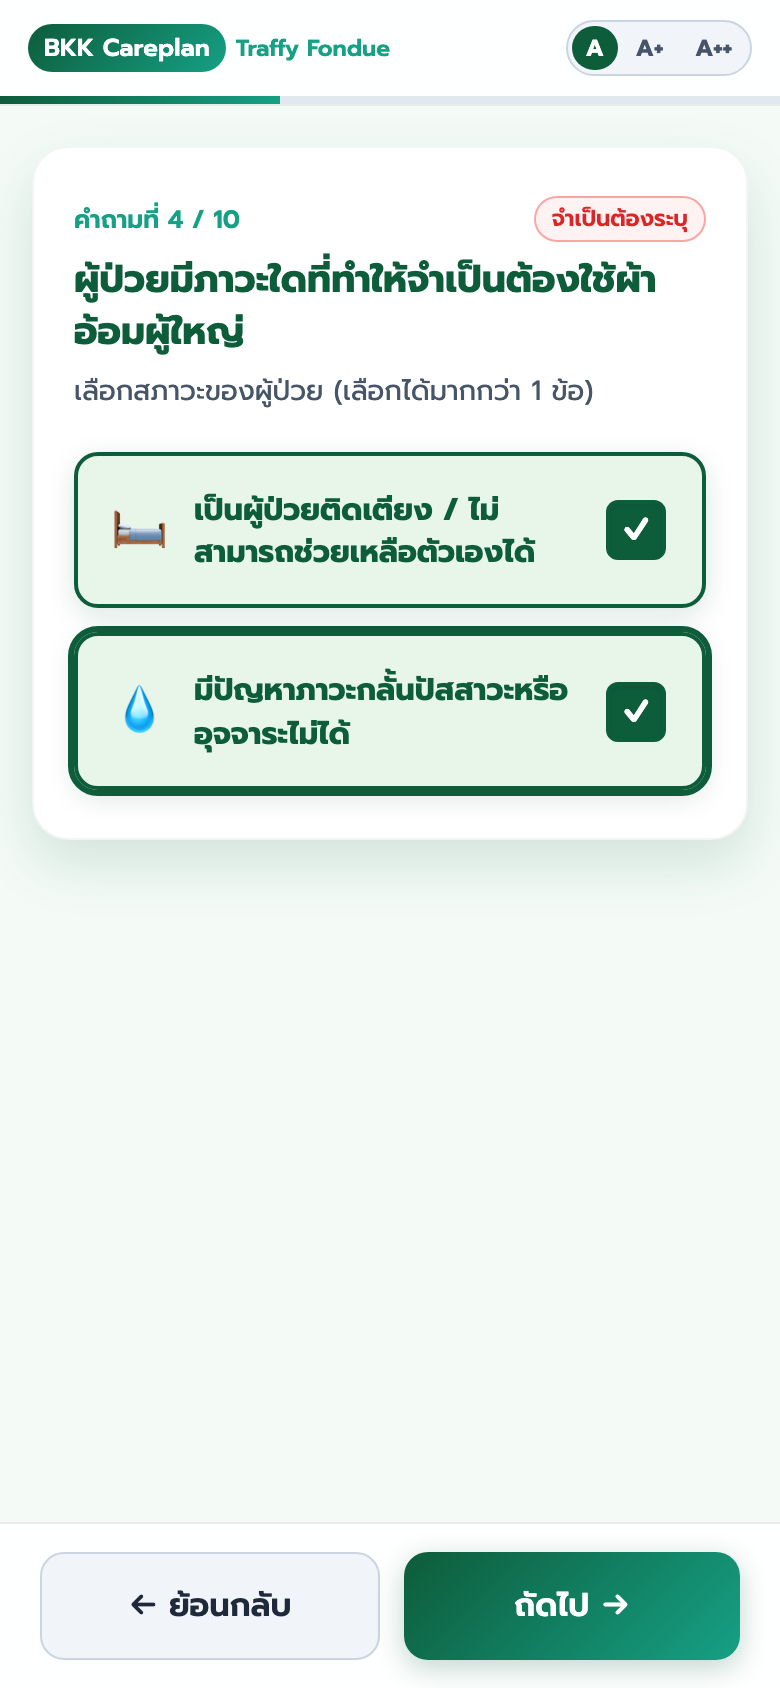
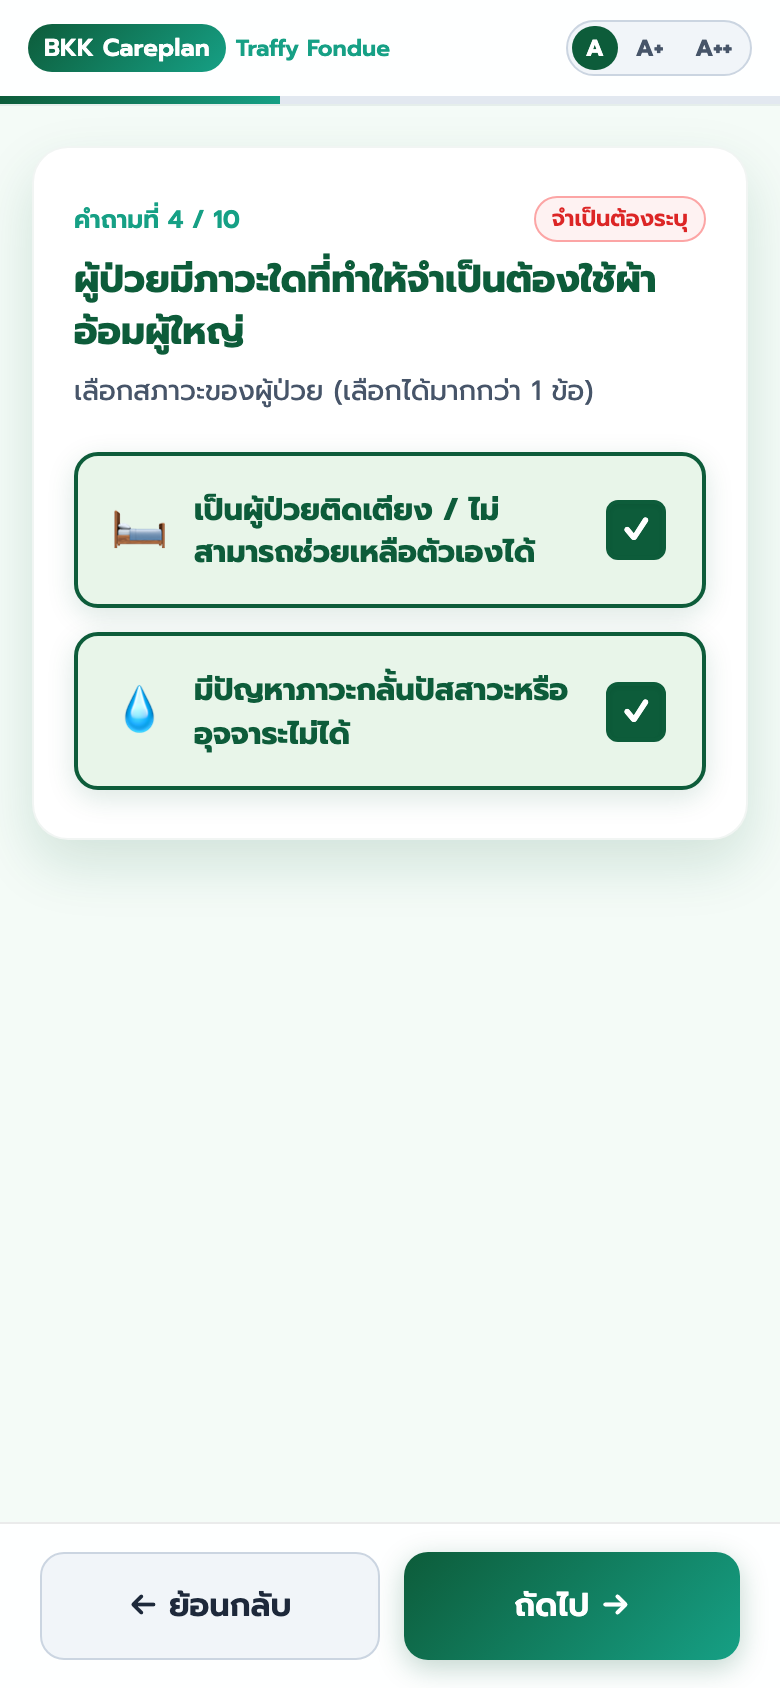
fix(ui): ensure card background returns to neutral white upon deselecting by updating focus and hover selectors

Changed region(s): [[0.0615, 0.3697, 0.9231, 0.4929]]

diff --git a/styles.css b/styles.css
@@ -289,9 +289,8 @@ body {
 
 /* Keyboard Focus Outline for Accessibility (WCAG 2.4.7) */
 .option-card:focus-within, .checkbox-card:focus-within {
-  outline: 3px solid var(--primary-green);
-  border-color: var(--primary-green);
-  background: #f0fdf4;
+  border-color: var(--secondary-teal);
+  box-shadow: 0 0 0 3px rgba(22, 160, 133, 0.2);
 }
 
 .card-content {
@@ -326,17 +325,17 @@ body {
 
 .option-card:hover, .checkbox-card:hover {
   border-color: var(--secondary-teal);
-  background: #f0fdf4;
+  background: #f8fafc;
 }
 
-/* Selected State Styles */
+/* Selected State Styles (High Priority) */
 .option-card.selected,
 .checkbox-card.selected,
 .option-card:has(input:checked),
 .checkbox-card:has(input:checked) {
-  border-color: var(--primary-green);
-  background: #e8f5e9;
-  box-shadow: 0 4px 14px rgba(13, 92, 58, 0.15);
+  border-color: var(--primary-green) !important;
+  background: #e8f5e9 !important;
+  box-shadow: 0 4px 14px rgba(13, 92, 58, 0.15) !important;
 }
 
 .option-card.selected .label-text,
